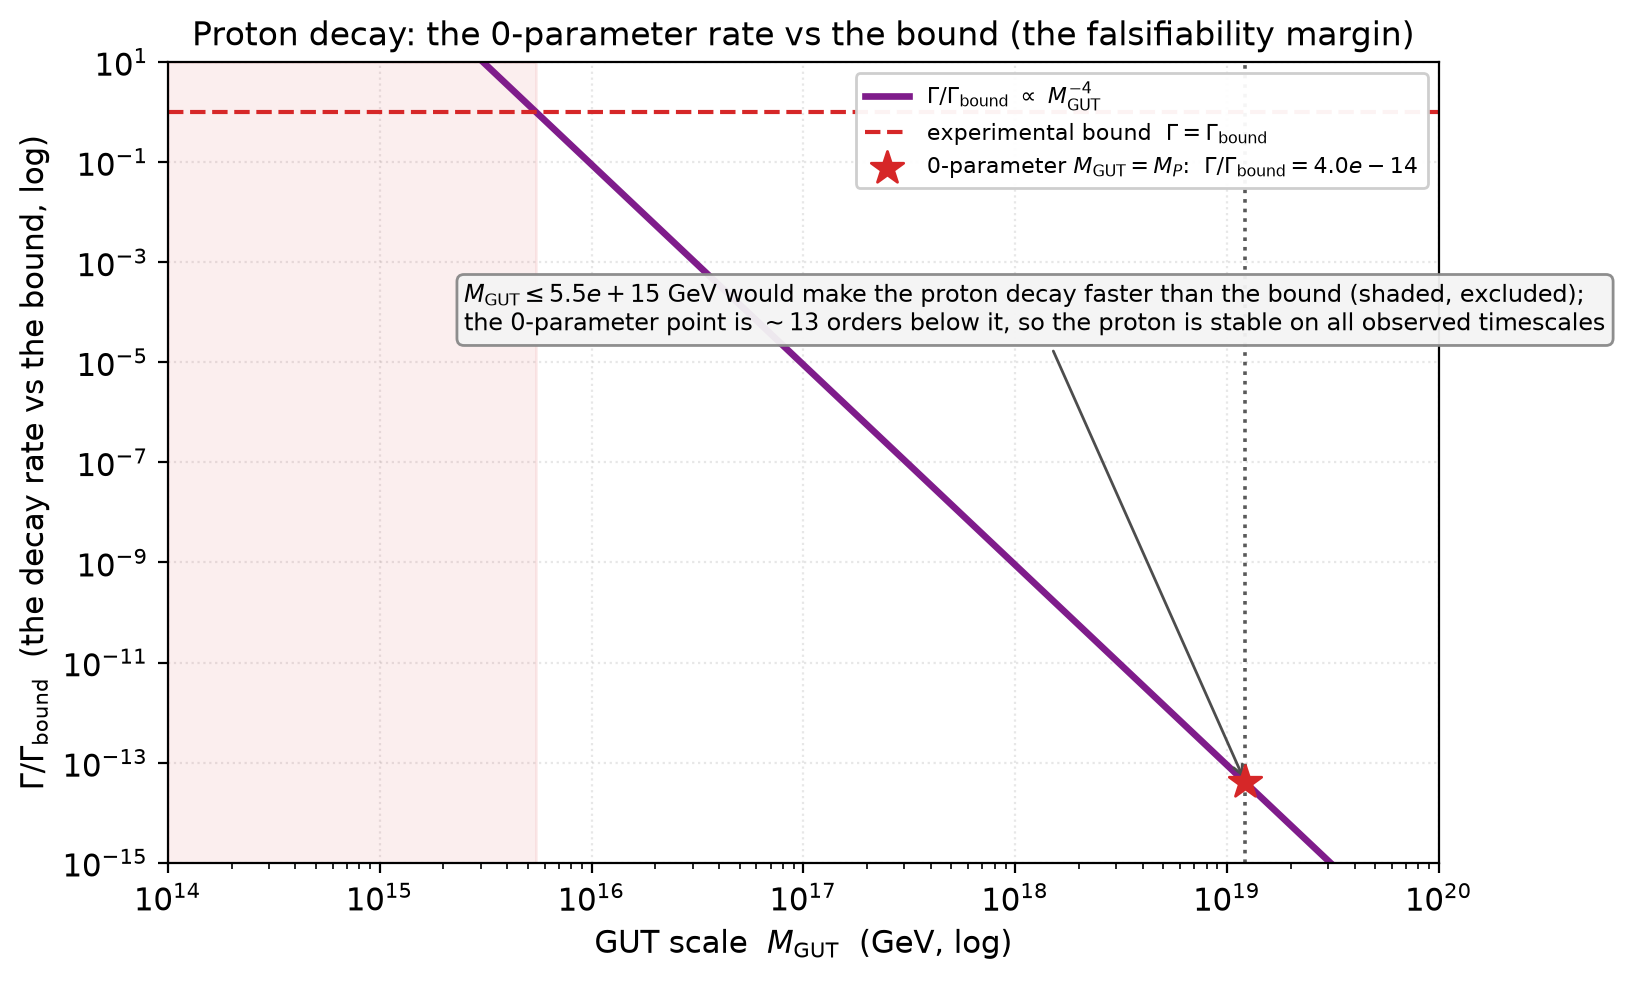
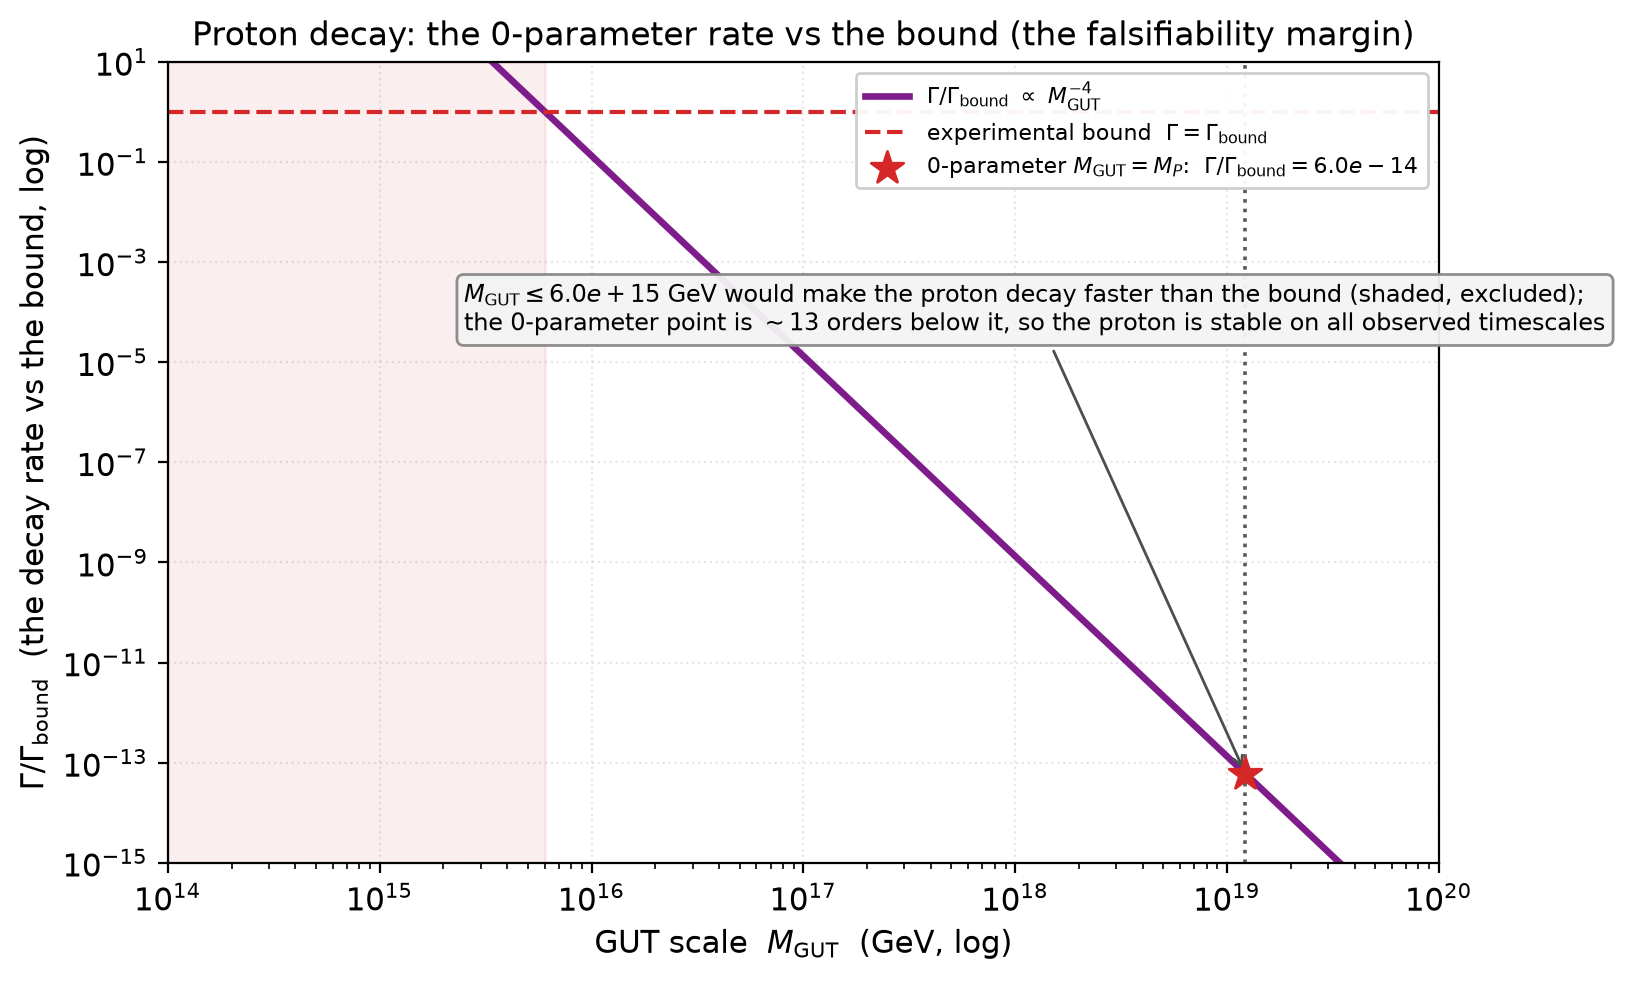
fix: correct Super-Kamiokande bounds in the proton-decay figures
fig20/21 used the superseded e+pi0 bound 1.6e34 -> 2.4e34 yr (Takenaka
et al. 2020, PRD 102, 112011); fig22 mu+pi0 7.0e33 -> 1.6e34 yr, and the
unverifiable e+K+ bound 2.7e33 replaced by the measured p->nu-bar K+
bound 6.6e33 yr (Abe et al. 2014, PRD 90, 072005) with an explicit
caption note. Excluded GUT scale annotation 5 -> 6e15 GeV (recomputed
with the corrected bound). Figs 20-22 regenerated.

diff --git a/make_figures.py b/make_figures.py
@@ -890,14 +890,14 @@ def fig20_proton_decay():
     M_GUT = np.logspace(14, 20, 300)
     tau_p = tau(M_GUT)
 
-    BOUND = 1.6e34          # yr, the p -> e+ pi0 bound (Super-Kamiokande)
+    BOUND = 2.4e34          # yr, the p -> e+ pi0 bound (Super-Kamiokande, Takenaka et al. 2020)
     TAU_UNIVERSE = 1.4e10   # yr, the age of the universe
 
     fig, ax = plt.subplots(figsize=(8.2, 5.4))
     ax.loglog(M_GUT, tau_p, "-", color=C_ROOT, lw=2.4,
               label=r"$\tau_p \sim M_{\rm GUT}^{4}\,/\,(\alpha_{10}^{2}\,m_p^{5})$")
     ax.axhline(BOUND, color=C_ZERO, ls="--", lw=1.5,
-               label="experimental bound  $\\tau_p > 1.6\\times10^{34}$ yr  ($p\\to e^+\\pi^0$)")
+               label="experimental bound  $\\tau_p > 2.4\\times10^{34}$ yr  ($p\\to e^+\\pi^0$)")
     ax.axhline(TAU_UNIVERSE, color="0.45", ls=":", lw=1.5,
                label="age of the universe  $\\sim 1.4\\times10^{10}$ yr")
     tau0 = float(tp.proton_decay_lifetime())
@@ -906,7 +906,7 @@ def fig20_proton_decay():
                      r"$\Rightarrow$ $\tau_p = $" + f"{tau0:.1e}" + r" yr")
     ax.axhspan(1.0, BOUND, color=C_ZERO, alpha=0.05)
     ax.annotate(
-        r"$M_{\rm GUT} \lesssim 5\times10^{15}$ GeV gives $\tau_p$ below the bound (excluded, shaded);"
+        r"$M_{\rm GUT} \lesssim 6\times10^{15}$ GeV gives $\tau_p$ below the bound (excluded, shaded);"
         "\nthe 0-parameter point sits $\\sim$13 orders of magnitude above it, so the proton is stable "
         "on all\nobserved timescales (consistent with data; the prediction is falsifiable)",
         xy=(M_P, tau0), xytext=(2e14, 3e34),
@@ -933,7 +933,7 @@ def fig21_proton_margin():
     M_P, ALPHA, m_p = tp.M_PLANCK, tp.ALPHA_10, tp.M_P_ROBSON
     def tau(M):
         return (M**4 / (ALPHA**2 * m_p**5)) * tp.GEV_TO_S / tp.S_TO_YR
-    BOUND = 1.6e34          # yr, the p -> e+ pi0 bound (Super-Kamiokande)
+    BOUND = 2.4e34          # yr, the p -> e+ pi0 bound (Super-Kamiokande, Takenaka et al. 2020)
     M_GUT = np.logspace(14, 20, 400)
     ratio = BOUND / tau(M_GUT)                 # = Gamma / Gamma_bound
     tau0 = float(tp.proton_decay_lifetime())
@@ -981,8 +981,8 @@ def fig22_proton_channels():
     pf0 = pf(me, mpi)
     chans = [
         ("$p \\to e^+ \\pi^0$", pf(me, mpi) / pf0, 1.0, 2.4e34),
-        ("$p \\to \\mu^+ \\pi^0$", pf(mmu, mpi) / pf0, 1.0, 7.0e33),
-        ("$p \\to e^+ K^+$", pf(me, mk) / pf0, 1.0, 2.7e33),
+        ("$p \\to \\mu^+ \\pi^0$", pf(mmu, mpi) / pf0, 1.0, 1.6e34),
+        ("$p \\to e^+ K^+$", pf(me, mk) / pf0, 1.0, 6.6e33),
     ]
     names, margin = [], []
     for nm, phase, had, bound in chans:
@@ -1001,8 +1001,8 @@ def fig22_proton_channels():
     ax.set_xticklabels(names)
     ax.set_ylabel(r"$\tau_p^{\rm (pred)}/\tau_p^{\rm (bound)}$  (the stability margin, log)")
     ax.set_title("Proton decay: the 0-parameter lifetime vs the bound, for the three GUT channels\n"
-                 r"(each $\sim10^{13}$-$10^{14}$ above its bound: the rate is GUT-suppressed, the two-body phase space differs)",
-                 fontsize=10)
+                 r"(each $\sim10^{13}$-$10^{14}$ above its bound; for the $K^+$ mode the $p\to\bar\nu K^+$ bound is used, the closest measured channel)",
+                 fontsize=9)
     ax.axhline(1.0, color=C_ZERO, ls="--", lw=1.4,
                label=r"the bound  ($\Gamma=\Gamma_{\rm bound}$)")
     ax.set_ylim(1e0, 1e15)
